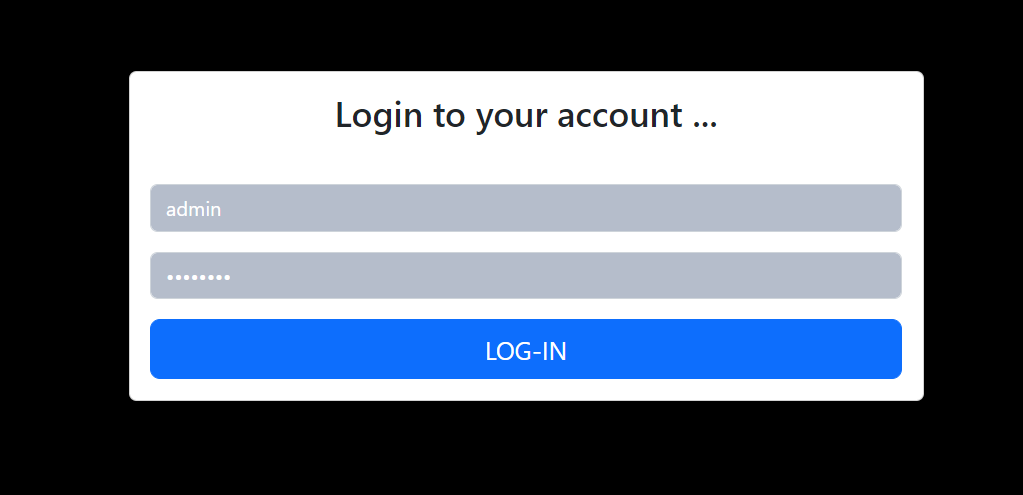
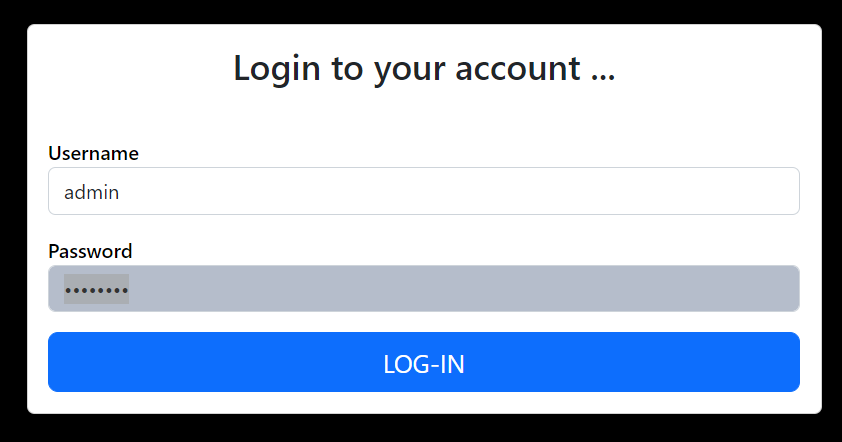
onClick Function

diff --git a/components/authentication/login-form.tsx b/components/authentication/login-form.tsx
@@ -8,7 +8,7 @@ export default function LoginForm(props: any) {
   const router = useRouter();
   const [data, setItems] = useState(props);
 
-  const [form, setFormValue] = useState({ name: '', password: '' });
+  const [form, setFormValue] = useState({ username: '', password: '' });
   const [isValid, setValidation] = useState(false);
   const [showForm, displayForm] = useState(true);
   const [isLoading, setLoading] = useState(false);
@@ -28,7 +28,7 @@ export default function LoginForm(props: any) {
       for (let i = 0; i < values.length; i++) {
         const key: any = values[i];
         const value = formState[key];
-        if ((key === 'name' && value.length < 3) || (key === 'password' && value.length < 5)) {
+        if ((key === 'username' && value.length < 3) || (key === 'password' && value.length < 5)) {
           valid = false;
           break;
         }
@@ -53,7 +53,7 @@ export default function LoginForm(props: any) {
     validate();
   }
 
-  const click = (event: any) => {
+  const onClick = (event: any) => {
     setLoading(true);
     const result = postFormJsonData(formState);
     processApiData(result);
@@ -62,7 +62,7 @@ export default function LoginForm(props: any) {
 
   const postFormJsonData = (data: any) => {
     const header = {
-      'Authorization': 'Basic ' + btoa(data.name + ':' + data.password),
+      'Authorization': 'Basic ' + btoa(data.username + ':' + data.password),
       'Content-Type': 'application/json'
     };
 
@@ -130,18 +130,20 @@ export default function LoginForm(props: any) {
  
               <form className="card-body" method="post" style={{ display: showForm ? 'block' : 'none' }}>
                 <div className="mt-3">
+                  <label htmlFor="username">Username</label>
                   <input
-                    value={form.name}
+                    value={form.username}
                     onChange={onChange}
                     className="form-control"
-                    id="name"
-                    name="name"
+                    id="username"
+                    name="username"
                     placeholder="Your username ..."
                     type="text"
                     autoComplete="false"
                   />
                 </div>
                 <div className="mt-3">
+                  <label htmlFor="password"> Password</label>
                   <input
                     value={form.password}
                     onChange={onChange}
@@ -156,7 +158,7 @@ export default function LoginForm(props: any) {
                 <div className="d-grid mt-3">
                   <button
                     disabled={!isValid}
-                    onClick={click}
+                    onClick={onClick}
                     className="btn btn-primary btn-lg" type="button" value="Send Now">
                     LOG-IN
                   </button>

diff --git a/styles/globals.css b/styles/globals.css
@@ -24,3 +24,7 @@ a {
     background: black;
   }
 }
+label{
+  font-weight: 600;
+  color: #000;
+}
